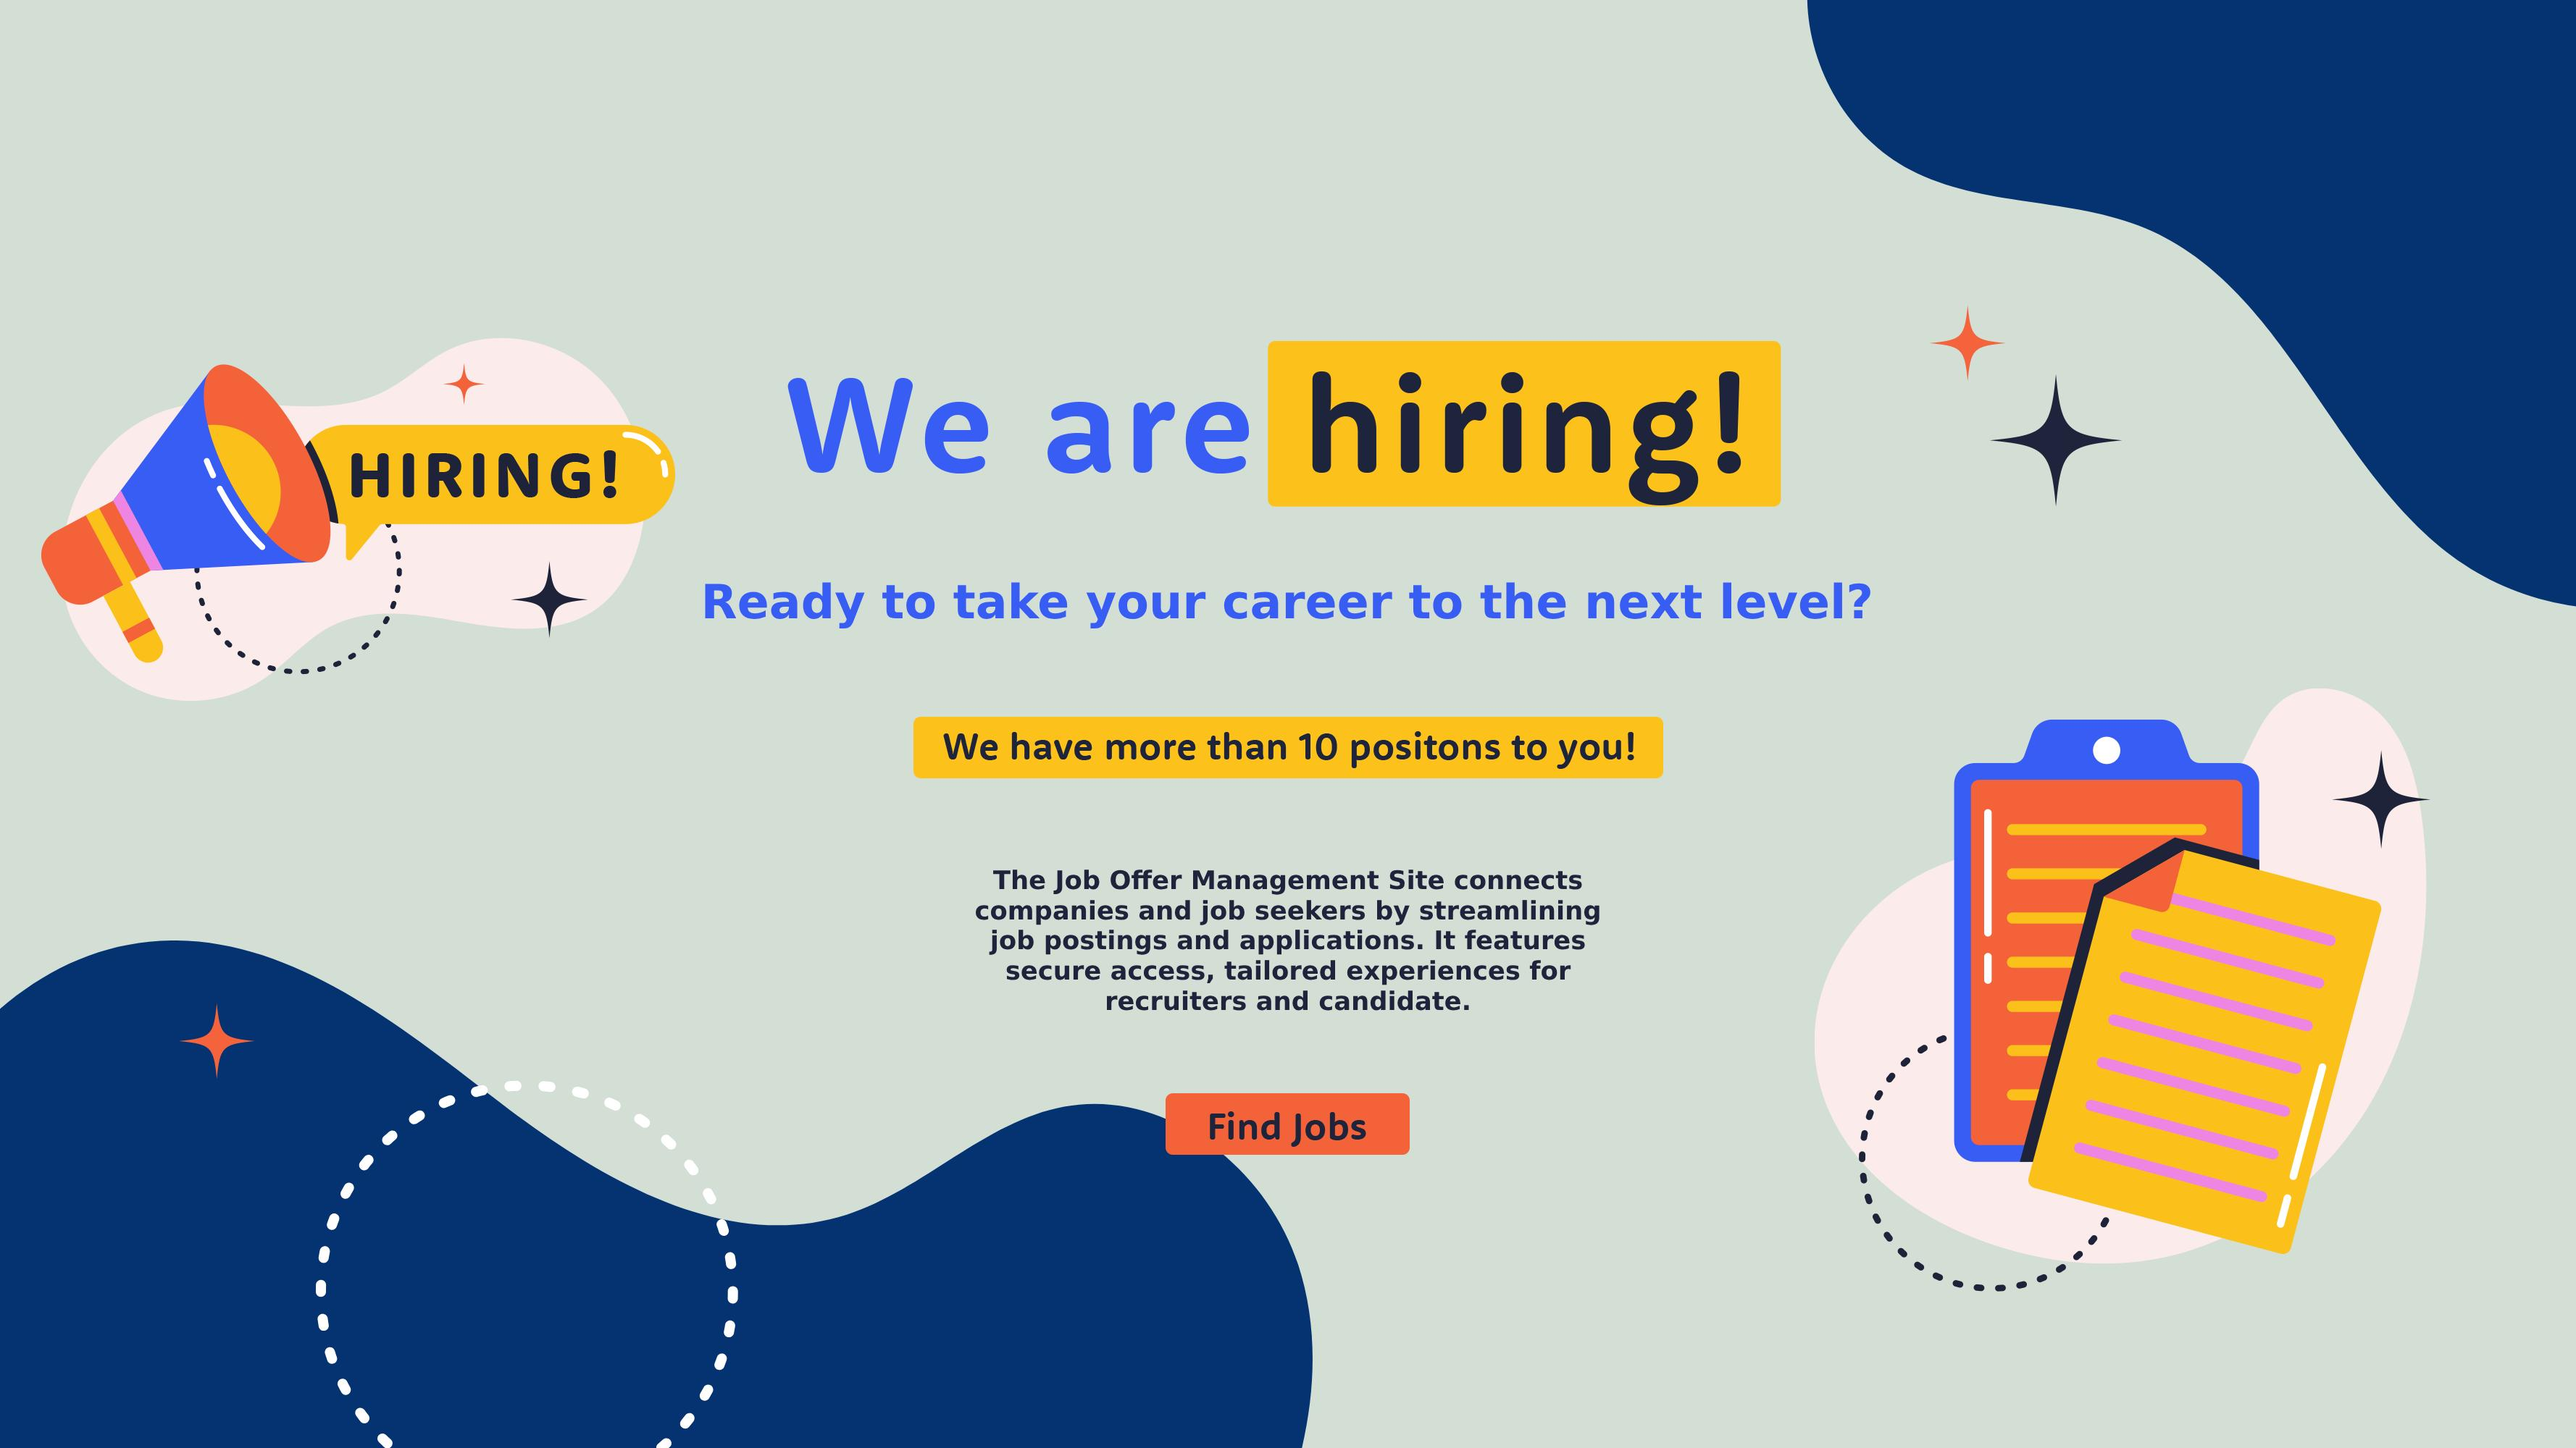
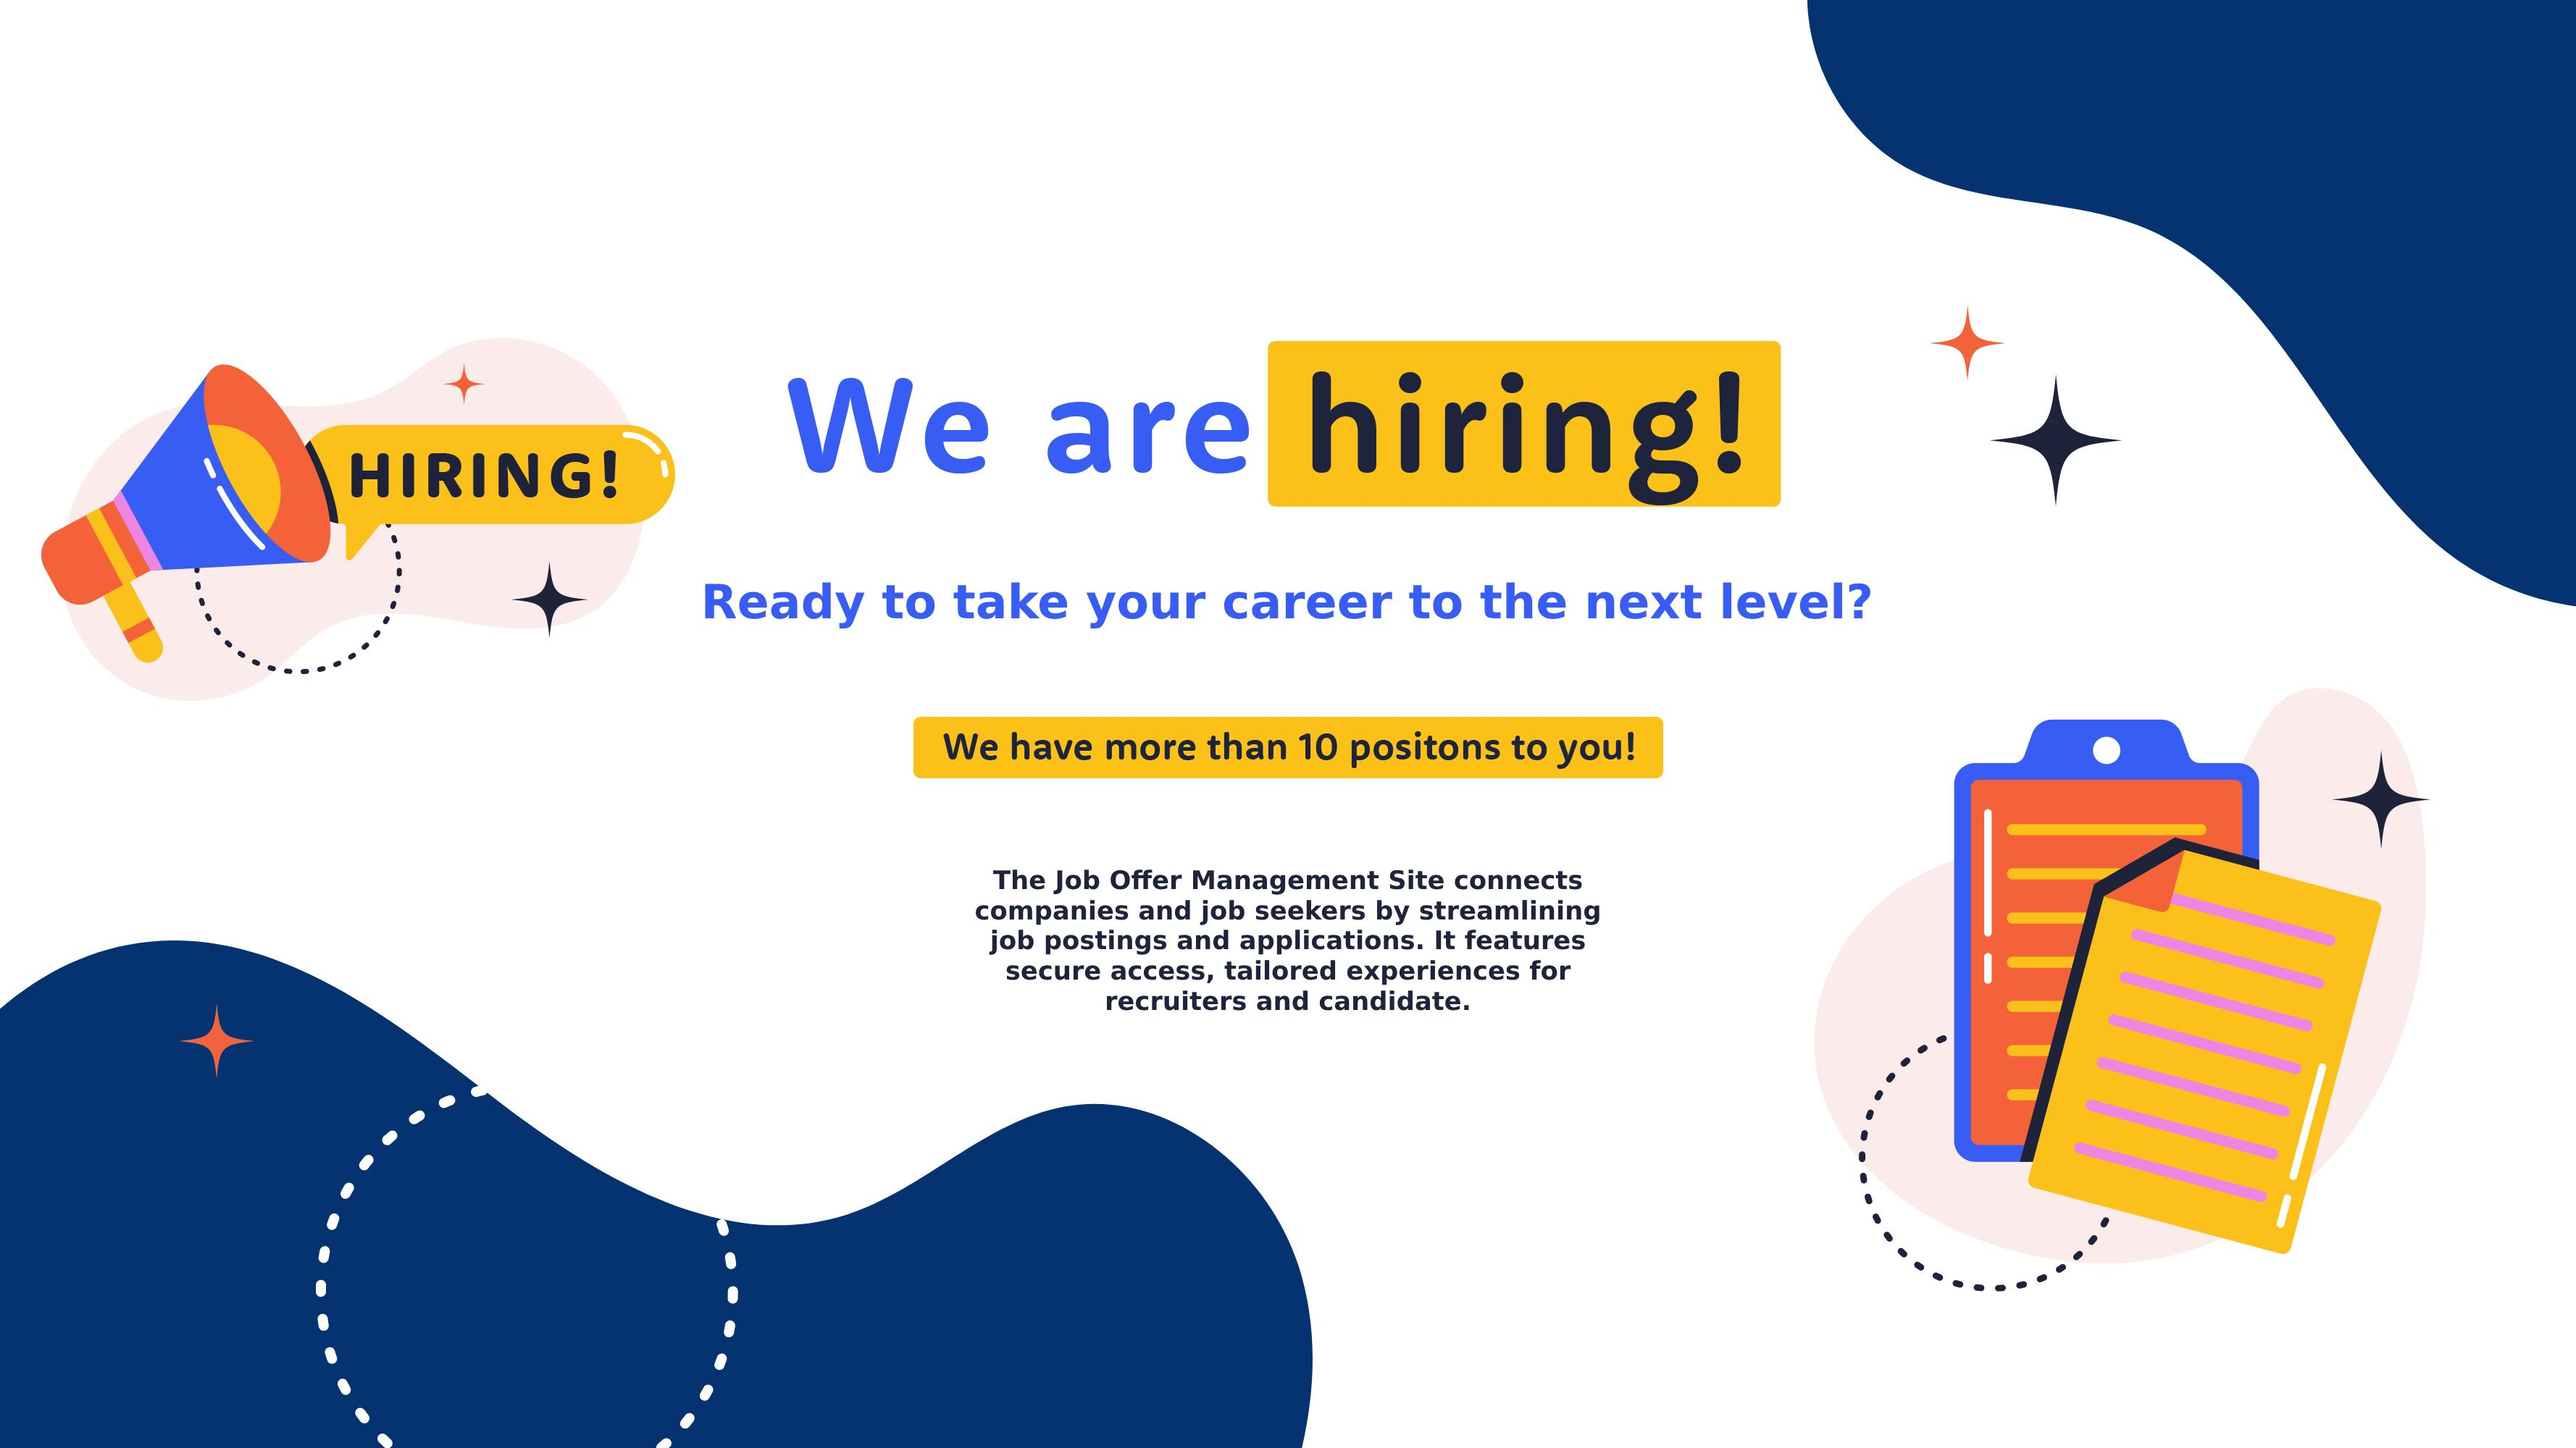
final commit

diff --git a/src/app/mix/components/job-offers/components/offers/offers.component.ts b/src/app/mix/components/job-offers/components/offers/offers.component.ts
@@ -7,7 +7,7 @@ import { jobOffersService } from '../../service/job-offers.service';
   styleUrls: ['./offers.component.css']
 })
 export class offersComponent implements OnInit {
-  filteredJobOffers: any;
+  filteredJobOffers: any = [];
   Skills: string[] = [];
   contrat = [
     { value: "fulltime", label: "Full-time" },

diff --git a/src/app/mix/components/home/home.component.css b/src/app/mix/components/home/home.component.css
@@ -1,7 +1,7 @@
 .option-card{
 width: 100%;
 height: 100vh;
-background-image: url("../../../../assets/home3.png");
+background-image: url("../../../../assets/hhome.png");
 background-position: center;
 background-size: cover;
 background-repeat: no-repeat;
